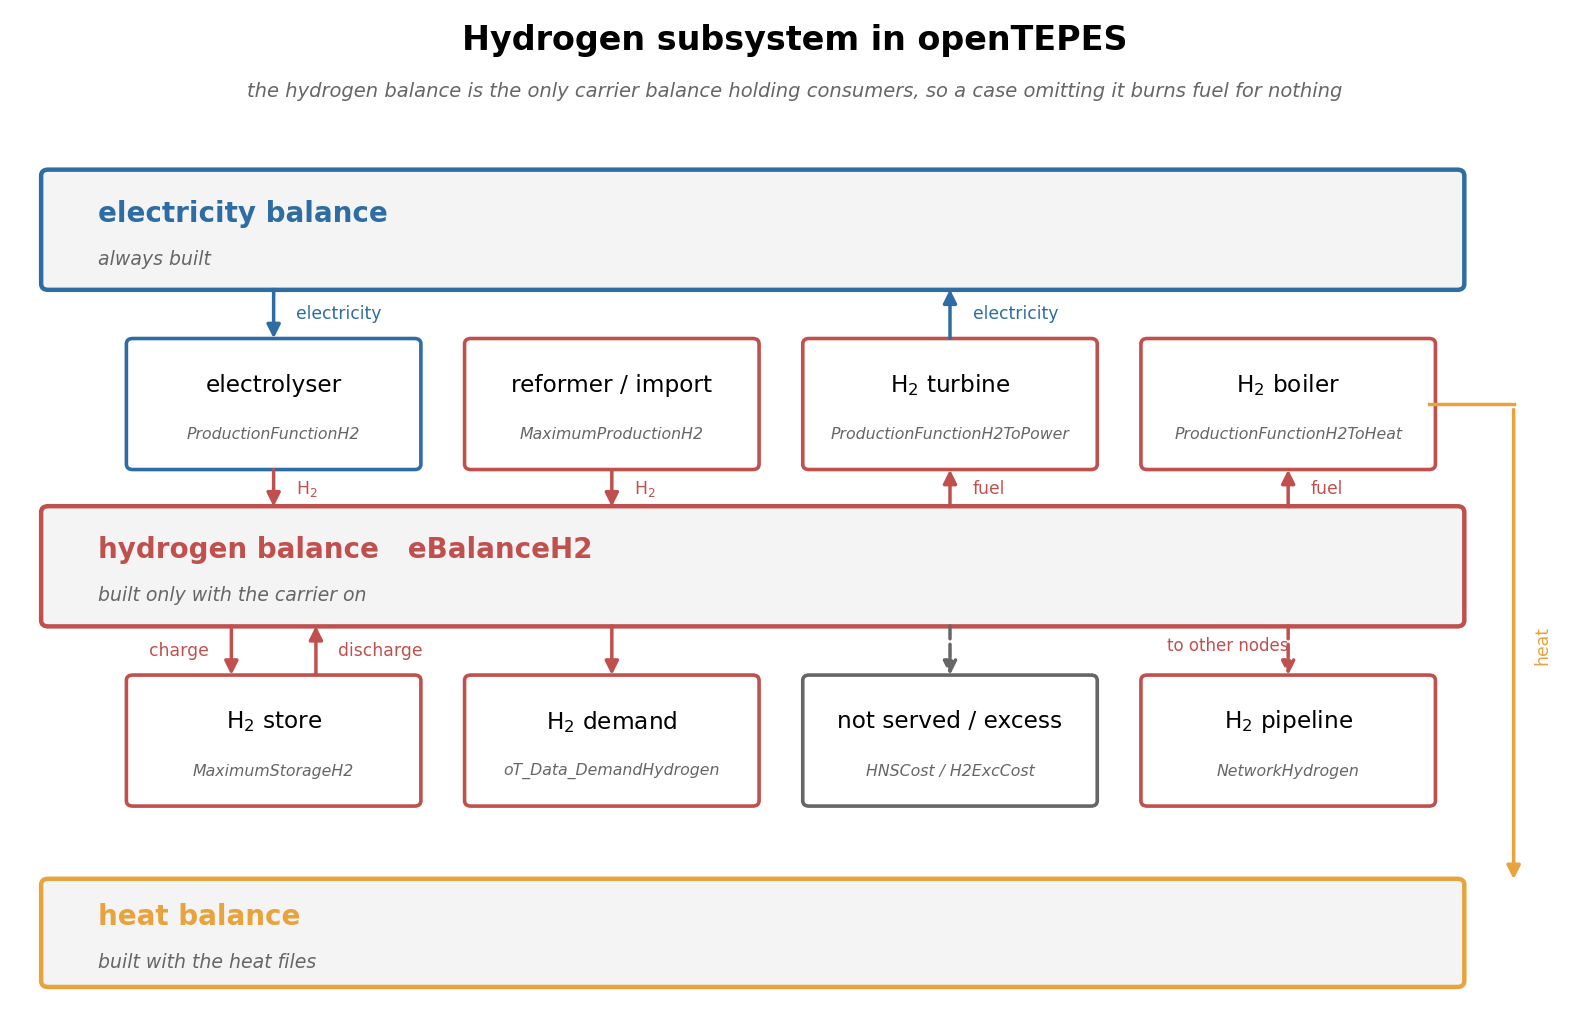
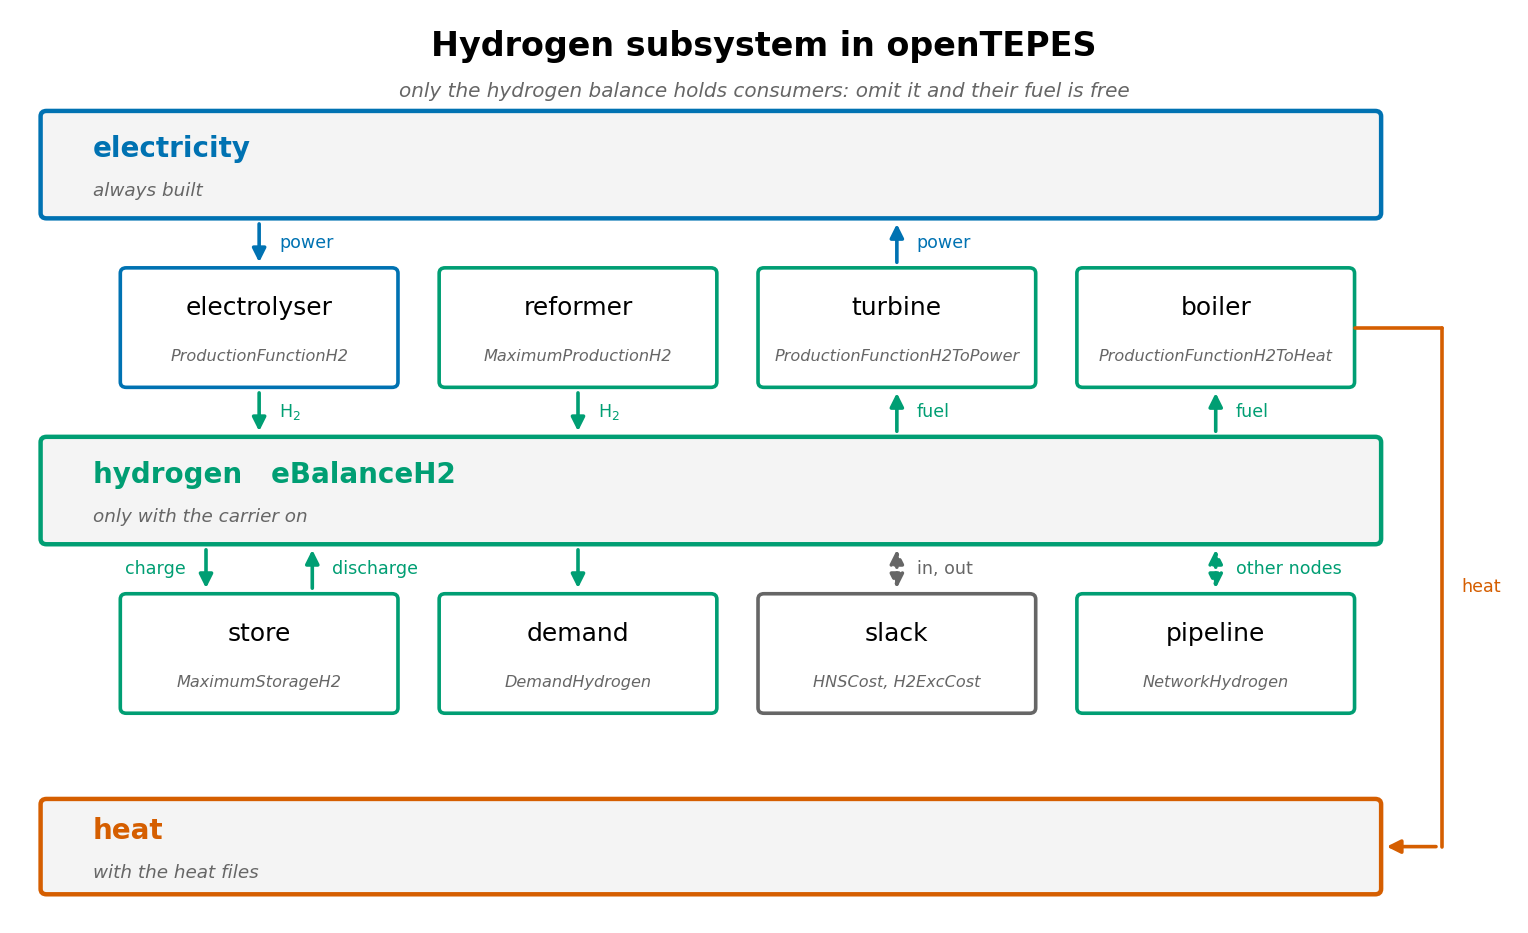
Remove a duplicated activation block, and cut the comments back
The earlier trim of the carrier-activation comment replaced the block by line
index and left the original below it, so the file carried the whole thing
twice: an orphaned comment fragment and a second copy of the detection and the
warning. The tests did not catch it because running the detection twice is
idempotent, which is how this kind of thing survives. The duplicate is gone.

Comments across the four hydrogen files go from 76 lines to 37, and no block
now runs past two lines. The activation rule is stated in two: a consumer is
charged for fuel in eBalanceH2 alone, so either switches the carrier on, and
electrolysers produce rather than consume. The comparison with heat and hydro
belongs in the commit message and the pull request, not beside the code.

The diagram gains elbow routing for the boiler-to-heat path, two-headed arrows
for the slack and the pipeline, which both flow either way, and Okabe-Ito
colours so the three carriers stay distinct under the common colour
deficiencies. Every arrow now starts and ends on a box edge.

The suite passes, 133 tests.

Changed region(s): [[0.0, 0.0, 0.9843, 0.9636]]

diff --git a/doc/img/make_hydrogen_diagram.py b/doc/img/make_hydrogen_diagram.py
@@ -1,67 +1,83 @@
-"""Schematic of the hydrogen subsystem, for doc/img/HydrogenSubsystem.png."""
+"""Schematic of the hydrogen subsystem, for doc/img/HydrogenSubsystem.png.
+
+Colours are Okabe-Ito, so the three carriers stay distinct under the common colour deficiencies.
+Every arrow starts and ends on a box edge; the boiler routes to heat as an elbow round the right.
+"""
 import matplotlib; matplotlib.use("Agg")
 import matplotlib.pyplot as plt
 from matplotlib.patches import FancyBboxPatch, FancyArrowPatch
 
-ELEC, H2, HEAT, GREY, BAL = "#2E6DA4", "#C0504D", "#E8A33D", "#666666", "#F4F4F4"
-fig, ax = plt.subplots(figsize=(10.0, 6.4))
-ax.set_xlim(0, 110); ax.set_ylim(0, 82); ax.axis("off")
+ELEC, H2, HEAT, GREY, BAL = "#0072B2", "#009E73", "#D55E00", "#666666", "#F4F4F4"
+PAD = 0.45
+
+fig, ax = plt.subplots(figsize=(9.6, 5.8))
+ax.set_xlim(0, 112); ax.set_ylim(0, 74); ax.axis("off")
 
 def band(y, h, colour, title, sub):
-    ax.add_patch(FancyBboxPatch((2, y), 100, h, boxstyle="round,pad=0.5",
+    ax.add_patch(FancyBboxPatch((2, y), 100, h, boxstyle=f"round,pad={PAD}",
                                 linewidth=1.6, edgecolor=colour, facecolor=BAL))
-    ax.text(5.5, y + h/2 + 1.4, title, fontsize=10, color=colour, va="center", weight="bold")
-    ax.text(5.5, y + h/2 - 2.4, sub, fontsize=6.8, color=GREY, style="italic", va="center")
+    ax.text(5.5, y + h/2 + 1.3, title, fontsize=10, color=colour, va="center", weight="bold")
+    ax.text(5.5, y + h/2 - 2.2, sub, fontsize=6.6, color=GREY, style="italic", va="center")
 
 def box(x, y, w, h, label, sub, colour):
-    ax.add_patch(FancyBboxPatch((x, y), w, h, boxstyle="round,pad=0.45",
+    ax.add_patch(FancyBboxPatch((x, y), w, h, boxstyle=f"round,pad={PAD}",
                                 linewidth=1.3, edgecolor=colour, facecolor="white"))
-    ax.text(x + w/2, y + h/2 + 1.6, label, ha="center", va="center", fontsize=8.4)
-    ax.text(x + w/2, y + h/2 - 2.5, sub, ha="center", va="center", fontsize=5.7,
+    ax.text(x + w/2, y + h/2 + 1.6, label, ha="center", va="center", fontsize=9)
+    ax.text(x + w/2, y + h/2 - 2.4, sub, ha="center", va="center", fontsize=5.8,
             style="italic", color=GREY)
 
-def arrow(x1, y1, x2, y2, colour, label=None, side=1, dashed=False):
-    ax.add_patch(FancyArrowPatch((x1, y1), (x2, y2), arrowstyle="-|>", mutation_scale=10,
-                                 linewidth=1.25, color=colour, linestyle="--" if dashed else "-"))
+def arrow(x, y1, y2, colour, label=None, side=1, dashed=False, both=False):
+    """Vertical, from edge to edge: y1 and y2 are the box edges, padding included."""
+    y1 += PAD if y2 > y1 else -PAD
+    y2 -= PAD if y2 > y1 else -PAD
+    ax.add_patch(FancyArrowPatch((x, y1), (x, y2), mutation_scale=10, linewidth=1.3,
+                                 arrowstyle="<|-|>" if both else "-|>",
+                                 color=colour, linestyle="--" if dashed else "-"))
     if label:
-        ax.text(x1 + 1.6*side, (y1 + y2)/2, label, fontsize=6.2, color=colour,
+        ax.text(x + 1.5*side, (y1 + y2)/2, label, fontsize=6.3, color=colour,
                 ha="left" if side > 0 else "right", va="center")
 
-band(60, 9, ELEC, "electricity balance", "always built")
-band(32, 9, H2,   "hydrogen balance   eBalanceH2", "built only with the carrier on")
-band(2,  8, HEAT, "heat balance", "built with the heat files")
+def elbow(pts, colour, label=None):
+    """Polyline with the arrowhead on the final segment."""
+    for a, b in zip(pts, pts[1:-1]):
+        ax.plot([a[0], b[0]], [a[1], b[1]], color=colour, lw=1.3, solid_capstyle="round")
+    ax.add_patch(FancyArrowPatch(pts[-2], pts[-1], arrowstyle="-|>", mutation_scale=10,
+                                 linewidth=1.3, color=colour))
+    if label:
+        ax.text(pts[1][0] + 1.5, (pts[1][1] + pts[2][1])/2, label, fontsize=6.3,
+                color=colour, va="center")
 
-XS, W = (8, 32, 56, 80), 20
-box(XS[0], 45, W, 10, "electrolyser",      "ProductionFunctionH2",        ELEC)
-box(XS[1], 45, W, 10, "reformer / import", "MaximumProductionH2",         H2)
-box(XS[2], 45, W, 10, "H$_2$ turbine",     "ProductionFunctionH2ToPower", H2)
-box(XS[3], 45, W, 10, "H$_2$ boiler",      "ProductionFunctionH2ToHeat",  H2)
+band(58, 8, ELEC, "electricity", "always built")
+band(31, 8, H2,   "hydrogen   eBalanceH2", "only with the carrier on")
+band(2,  7, HEAT, "heat", "with the heat files")
 
-arrow(18, 60, 18, 55, ELEC, "electricity")
-arrow(18, 45, 18, 41, H2,   "H$_2$")
-arrow(42, 45, 42, 41, H2,   "H$_2$")
-arrow(66, 41, 66, 45, H2,   "fuel")
-arrow(66, 55, 66, 60, ELEC, "electricity")
-arrow(90, 41, 90, 45, H2,   "fuel")
-ax.plot([100, 106], [50, 50], color=HEAT, lw=1.25)                       # boiler out to the right
-ax.add_patch(FancyArrowPatch((106, 50), (106, 10), arrowstyle="-|>", mutation_scale=10,
-                             linewidth=1.25, color=HEAT))
-ax.text(107.4, 30, "heat", fontsize=6.2, color=HEAT, rotation=90, va="center")
+XS, W, H = (8, 32, 56, 80), 20, 9
+box(XS[0], 44, W, H, "electrolyser", "ProductionFunctionH2",        ELEC)
+box(XS[1], 44, W, H, "reformer",     "MaximumProductionH2",         H2)
+box(XS[2], 44, W, H, "turbine",      "ProductionFunctionH2ToPower", H2)
+box(XS[3], 44, W, H, "boiler",       "ProductionFunctionH2ToHeat",  H2)
 
-box(XS[0], 17, W, 10, "H$_2$ store",         "MaximumStorageH2",       H2)
-box(XS[1], 17, W, 10, "H$_2$ demand",        "oT_Data_DemandHydrogen", H2)
-box(XS[2], 17, W, 10, "not served / excess", "HNSCost / H2ExcCost",    GREY)
-box(XS[3], 17, W, 10, "H$_2$ pipeline",      "NetworkHydrogen",        H2)
+arrow(18, 58, 53, ELEC, "power")            # grid  -> electrolyser
+arrow(18, 44, 39, H2,   "H$_2$")            # electrolyser -> balance
+arrow(42, 44, 39, H2,   "H$_2$")            # reformer -> balance
+arrow(66, 39, 44, H2,   "fuel")             # balance -> turbine
+arrow(66, 53, 58, ELEC, "power")            # turbine -> grid
+arrow(90, 39, 44, H2,   "fuel")             # balance -> boiler
+elbow([(100 + PAD, 48.5), (107, 48.5), (107, 5.5), (102 + PAD, 5.5)], HEAT, "heat")
 
-arrow(15, 32, 15, 27, H2, "charge", side=-1)
-arrow(21, 27, 21, 32, H2, "discharge")
-arrow(42, 32, 42, 27, H2)
-arrow(66, 32, 66, 27, GREY, dashed=True)
-arrow(90, 32, 90, 27, H2, dashed=True)
-ax.text(90, 29.5, "to other nodes", fontsize=6.0, color=H2, ha="right")
+box(XS[0], 17, W, H, "store",    "MaximumStorageH2", H2)
+box(XS[1], 17, W, H, "demand",   "DemandHydrogen",   H2)
+box(XS[2], 17, W, H, "slack",    "HNSCost, H2ExcCost", GREY)
+box(XS[3], 17, W, H, "pipeline", "NetworkHydrogen",  H2)
 
-ax.text(55, 79.5, "Hydrogen subsystem in openTEPES", ha="center", fontsize=12, weight="bold")
-ax.text(55, 75.6, "the hydrogen balance is the only carrier balance holding consumers, so a case omitting it burns fuel for nothing",
-        ha="center", fontsize=7.0, style="italic", color=GREY)
+arrow(14, 31, 26, H2, "charge", side=-1)
+arrow(22, 26, 31, H2, "discharge")
+arrow(42, 31, 26, H2)
+arrow(66, 31, 26, GREY, "in, out", dashed=True, both=True)
+arrow(90, 31, 26, H2, "other nodes", dashed=True, both=True)
+
+ax.text(56, 71, "Hydrogen subsystem in openTEPES", ha="center", fontsize=12, weight="bold")
+ax.text(56, 67.6, "only the hydrogen balance holds consumers: omit it and their fuel is free",
+        ha="center", fontsize=7.2, style="italic", color=GREY)
 fig.savefig("doc/img/HydrogenSubsystem.png", dpi=200, bbox_inches="tight")
 print("wrote doc/img/HydrogenSubsystem.png")

diff --git a/openTEPES/openTEPES_InputData.py b/openTEPES/openTEPES_InputData.py
@@ -125,11 +125,8 @@ def InputData(DirName, CaseName, mTEPES, pIndLogConsole):
         if key not in par.keys():
             par[key] = 0
 
-    # Optional sectors are switched on by their own files. Hydrogen consumers are the exception:
-    # their fuel is charged in eBalanceH2 alone, so with no hydrogen file they burn nothing. Either
-    # consumer, a hydrogen-fired generator or a hydrogen boiler, switches the carrier on. The heat
-    # balance carries producers only, and hydro without the topology runs on the ESS balance, so
-    # neither needs this. Electrolysers produce rather than consume and do not switch it on.
+    # A hydrogen consumer, a turbine or a boiler, is charged for fuel in eBalanceH2 alone, so
+    # either switches the carrier on. Electrolysers produce rather than consume and do not.
     _gen = dfs.get('dfGeneration')
     def _units(col):
         return int((_gen[col] > 0.0).sum()) if (_gen is not None and col in _gen.columns) else 0
@@ -141,29 +138,7 @@ def InputData(DirName, CaseName, mTEPES, pIndLogConsole):
         print(f'WARNING: neither oT_Data_DemandHydrogen nor oT_Data_NetworkHydrogen is present, but '
               f'the Generation table defines {_named}. The hydrogen carrier is enabled so their fuel '
               f'is charged; without it they burn nothing.')
-    # generator and a hydrogen boiler, and either turns the carrier on by itself.
-    #
-    # No other sector needs this. The heat balance carries producers alone, so heat off leaves a unit
-    # with nowhere to send its output rather than a free input, and its own fuel is charged on the
-    # electricity or the hydrogen balance. Hydro without the topology still runs through the ESS
-    # energy balance.
-    #
-    # Electrolysers deliberately do not switch it on. They produce hydrogen rather than consume it,
-    # and without the carrier they are flexible loads whose output leaves the model boundary, which
-    # cases/9n_H2 and cases/RTS24 both rely on.
-    _gen = dfs.get('dfGeneration')
-    def _units(col):
-        return int((_gen[col] > 0.0).sum()) if (_gen is not None and col in _gen.columns) else 0
-    _consumers = {'hydrogen-fired generator': _units('ProductionFunctionH2ToPower'),
-                  'hydrogen boiler'         : _units('ProductionFunctionH2ToHeat')}
-    if not par['pIndHydrogen'] and any(_consumers.values()):
-        par['pIndHydrogen'] = 1
-        _named = ', '.join(f'{v} {k}(s)' for k, v in _consumers.items() if v)
-        print(f'WARNING: neither oT_Data_DemandHydrogen nor oT_Data_NetworkHydrogen is present, but '
-              f'the Generation table defines {_named}. The hydrogen carrier is enabled so their fuel '
-              f'is charged; without it they burn nothing.')
-        # Hydrogen beyond what the consumers burn leaves the model boundary, as it did with the
-        # carrier off, so excess is free unless the case prices it.
+        # Hydrogen past the consumers leaves the boundary, as before, so excess is free.
         par.setdefault('pH2ExcCost', 0.0)
         # Both tables are absent; the frames must still exist for the readers below.
         if 'dfDemandHydrogen' not in dfs:
@@ -431,10 +406,8 @@ def InputData(DirName, CaseName, mTEPES, pIndLogConsole):
     par['pProductionFunctionH2ToHeat'] = dfs['dfGeneration']  ['ProductionFunctionH2ToHeat'] * 1e-3
     # hydrogen-fired generation. Optional column: without it the hg set is empty
     # no 1e-3 here: GWh x gH2/kWh gives tonnes directly, so the term is already in tH2
-    # hydrogen made without electricity: reforming, and imports landing at a node.
-    # MaximumProductionH2 in tH2/h, as the balance is written, so no scaling on the way in.
-    # ProductionCostH2 in MEUR/tH2 carries fuel, variable O&M and the carbon price together.
-    # ProductionEmissionH2 in tCO2/tH2 is carried for reporting.
+    # hydrogen without electricity: reforming and imports. tH2/h, MEUR/tH2, tCO2/tH2, unscaled.
+    # ProductionCostH2 carries fuel, O&M and carbon; ProductionEmissionH2 is reported only.
     for _c, _d in (('MaximumProductionH2', 0.0), ('ProductionCostH2', 0.0), ('ProductionEmissionH2', 0.0)):
         par['p' + _c] = (dfs['dfGeneration'][_c] if _c in dfs['dfGeneration'].columns
                          else pd.Series(_d, index=dfs['dfGeneration'].index)).fillna(_d)
@@ -443,8 +416,7 @@ def InputData(DirName, CaseName, mTEPES, pIndLogConsole):
                                            if 'ProductionFunctionH2ToPower' in dfs['dfGeneration'].columns
                                            else pd.Series(0.0, index=dfs['dfGeneration'].index)).fillna(0.0)                                                      # production function of a boiler using H2     [gH2/kWh]
 
-    # hydrogen storage, so the balance need not clear within the hour.
-    # All three columns are optional: without MaximumStorageH2 the hs set is empty
+    # hydrogen storage. Optional columns: without MaximumStorageH2 the hs set is empty
     def _optional_gen_col(name, default=0.0):
         return (dfs['dfGeneration'][name] if name in dfs['dfGeneration'].columns
                 else pd.Series(default, index=dfs['dfGeneration'].index))

diff --git a/openTEPES/openTEPES_DataConfiguration.py b/openTEPES/openTEPES_DataConfiguration.py
@@ -278,9 +278,8 @@ def DataConfiguration(mTEPES, dfs=None, par=None):
     CreateInstrumentalSets(mTEPES, par['pIndHydroTopology'], par['pIndHydrogen'], par['pIndHeat'], par['pIndPTDF'])
 
     if par['pIndHydrogen']:
-        # An element that cannot act is not an error, but it is usually a case-building mistake.
-        # Storage is neither source nor sink: eH2IniFinInventory returns it to its starting level.
-        # System-wide, not per node, so a pipe-connected neighbour counts.
+        # Inert elements are legal but usually a case-building mistake. Storage is neither source
+        # nor sink, since eH2IniFinInventory returns it to its start. System-wide, not per node.
         _has_source = bool(mTEPES.el) or bool(mTEPES.sr) or bool(mTEPES.pa)
         _has_sink   = bool(mTEPES.h2p) or bool(mTEPES.hh) or bool(mTEPES.pa) or float(par['pDemandH2'].sum().sum()) > 0.0
         for _what, _present, _needs, _consequence in (
@@ -1072,8 +1071,7 @@ def DataConfiguration(mTEPES, dfs=None, par=None):
 
     mTEPES.pENSCost              = Param(initialize=par['pENSCost']             , within=NonNegativeReals,    doc='ENS cost'                                           , mutable=True)
     mTEPES.pH2NSCost             = Param(initialize=par['pHNSCost']             , within=NonNegativeReals,    doc='HNS cost'                                           )
-    # Optional H2ExcCost in oT_Data_Parameter. Absent, it stays at half the not-served cost,
-    # which is the value every case carried before the column existed.
+    # Optional H2ExcCost. Absent, it stays at half the not-served cost, as every case had.
     _h2_exc = par.get('pH2ExcCost')
     if _h2_exc is None or _h2_exc != _h2_exc:            # absent, or the column present and the cell blank
         _h2_exc = par['pHNSCost']*0.5

diff --git a/openTEPES/openTEPES_ModelFormulationHydrogen.py b/openTEPES/openTEPES_ModelFormulationHydrogen.py
@@ -89,8 +89,7 @@ def NetworkH2OperationModelFormulation(OptModel, mTEPES, pIndLogConsole, p, sc, 
     setattr(OptModel, f'eTotalH2SrcCost_{p}_{sc}_{st}', Constraint(mTEPES.n, rule=eTotalH2SrcCost, doc='hydrogen source cost [MEUR]'))
 
     def eTotalRH2Cost(OptModel,n):
-        # guard matches eBalanceH2, else a node carries a cost-free unserved variable.
-        # Stage weight alone: vH2NS is already tonnes, unlike vENS which is a power.
+        # guard matches eBalanceH2. Stage weight alone: vH2NS is tonnes, vENS is a power.
         return OptModel.vTotalRH2Cost[p,sc,n] == mTEPES.pLoadLevelWeight[p,sc,n]() * sum(mTEPES.pH2NSCost * OptModel.vH2NS[p,sc,n,nd] + mTEPES.pH2ExcCost * OptModel.vH2Exc[p,sc,n,nd] for nd in mTEPES.nd if len(l2n[nd]) + len(b2n[nd]) + len(g2n[nd]) + len(s2nd[nd]) + len(r2n[nd]) + len(lout[nd]) + len(lin[nd]))
     setattr(OptModel, f'eTotalRH2Cost_{p}_{sc}_{st}', Constraint(mTEPES.n, rule=eTotalRH2Cost, doc='H2 system reliability cost [MEUR]'))
 
